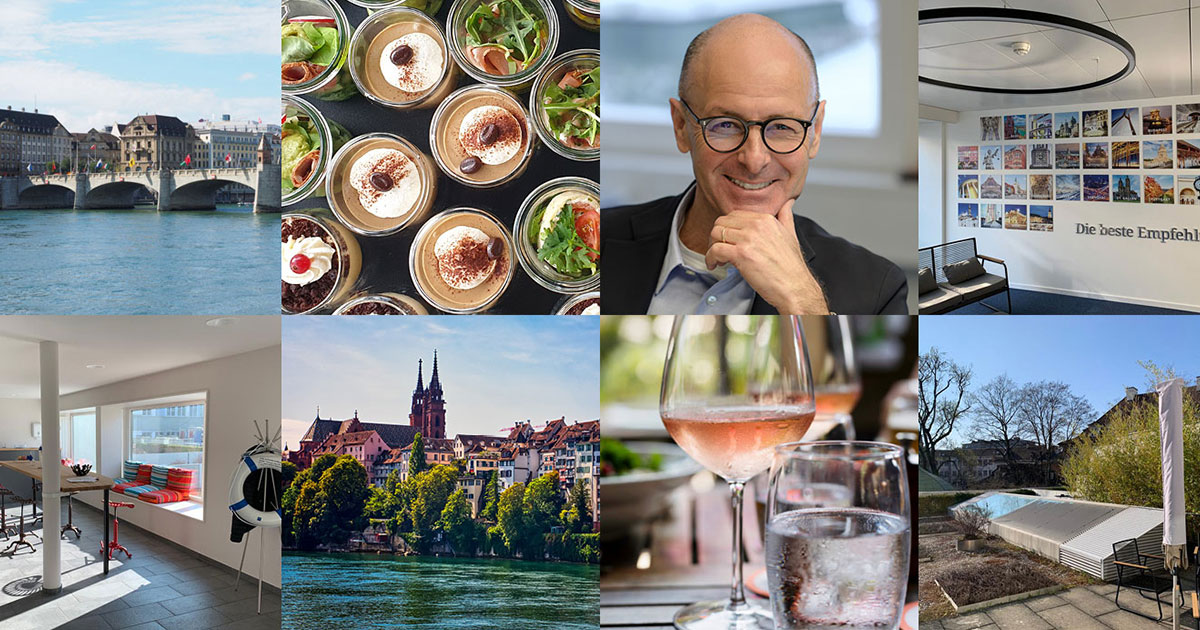
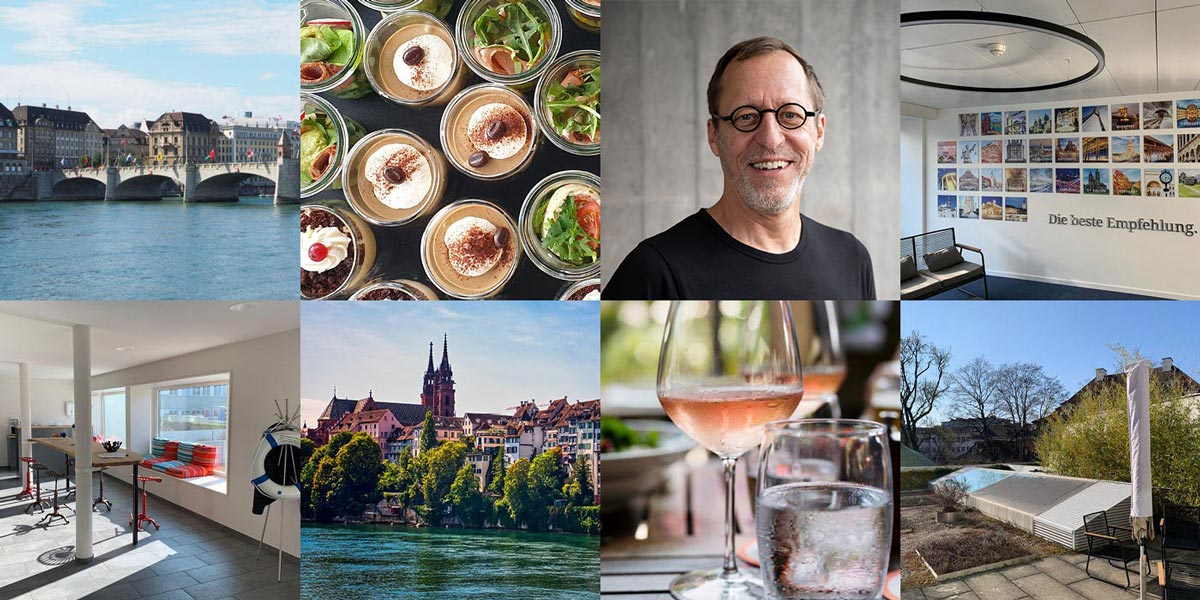
update

diff --git a/main.css b/main.css
@@ -35,11 +35,11 @@ h1{
   padding-bottom: 20px;
 }
 h1.header {
-  font-size: 90px;
+  font-size: 70px;
   padding-bottom: 0;
 }
 h2.header {
-  font-size: 50px;
+  font-size: 40px;
 }
 h3 {
   font-size: 15px;
@@ -78,14 +78,14 @@ article{
 
 header {
   width: 100%;
-  height: 100vh;
+  height: 150vh;
   position: relative;
-  
+  background-color: var(--funkblue);
 }
 
 header h1,
 header h2 {
-  color: var(--funkblue);
+  color: white;
 }
 
 .asheader {
@@ -99,7 +99,7 @@ header h2 {
 }
 
 .event-container-img {
-  height: 60vh;
+  height: 100vh;
   width: 100%;
   margin: 0;
   padding: 0;
@@ -375,15 +375,24 @@ footer p {
   padding-right: 50px;
 }
 footer  {
-    margin-top: 100px;
     background: var(--funkblue);
     display: flex;
-    margin-top: 70px;
+    margin-top: 0px;
     padding:30px;
     gap: 30px;
-    justify-content: flex-start;
+    justify-content: space-between;
     align-items: flex-end;
   }
+
+.footer02 {
+  display: flex;
+  flex-direction: row;
+  align-items: flex-end;
+  gap: 20px;
+}
+.footer-logo {
+  width: 100px;
+}
 
 /*----------------------------------
     Mobile
@@ -397,6 +406,10 @@ footer  {
   h3, .containerform p {font-size: 16px; text-align: left;}
   p, label, input, textarea, button, a {font-size: 16px;}
   section {width: 90%;}
+
+  header {height: 100vh;}
+  .event-container-img {height: 50vh;}
+
   .homebutton {bottom: 30px;}
   .containerform form {margin: 20px 0 0;}
   .gitem02 {grid-column: span 2; padding-bottom: 0px !important;}

diff --git a/index.php b/index.php
@@ -14,7 +14,7 @@
         <div class="event-title">
           <h1 class="header">Funk Connect</h1>
           <h2 class="header">Aus der Praxis für die Praxis</h2>
-          <h2 class="fix">18. Juni 2024</h2>
+          <h2 class="fix">20. November 2024</h2>
           <div class="event-container-img"></div> 
         </div>
         <button class="homebutton"> <a class="goto" href="#anmeldung">zur Anmeldung</a> </button>
@@ -22,16 +22,16 @@
 
     <section>
       <article class="intro">
-        <h1>Persönliche Einladung <br> Baurecht in der Praxis erleben</h1>
+        <h1>Persönliche Einladung <br> Herausforderung Inklusion für Wirtschaft und Gesellschaft</h1>
         <p>
           <span>
           Sehr geehrte Damen und Herren
           </span>
           <span>
-          Wir freuen uns, Sie zu unserem &laquo;Funk Connect&raquo; Event in unserer Niederlassung in Basel einzuladen. Unsere wiederkehrende Eventreihe &laquo;Funk Connect&raquo; bietet Einblicke von der Praxis für die Praxis. Knüpfen Sie wertvolle Kontakte in einem angenehmen und persönlichen Rahmen.
+          Wir freuen uns, Sie zu unserem zweiten &laquo;Funk Connect&raquo; Event in unserer Niederlassung in Basel einzuladen. Unsere wiederkehrende Eventreihe &laquo;Funk Connect&raquo; bietet Einblicke von der Praxis für die Praxis. Knüpfen Sie wertvolle Kontakte in einem angenehmen und persönlichen Rahmen.
           </span>
           <span>
-          Erleben Sie ein spannendes Impulsreferat der <strong>NEOVIUS AG</strong> zu Themen des öffentlichen und privaten Baurechts und erfahren Sie praxisnahe Einblicke von Herrn Daniel Gebhardt, Fachanwalt SAV Bau- und Immobilienrecht.
+          Erleben Sie ein spannendes Impulsreferat der <strong>Conclood AG</strong> zum Thema Inklusion (UN-Konvention) von Menschen mit Beeinträchtigungen - Herausforderung für die Wirtschaft und Gesellschaft. Welche Transformation ist dazu nötig und wichtig? Erfahren Sie praxisnahe Vorgehensweisen und Einblicke von <strong>Herrn Rolf Müller, Verwaltungsratspräsident Conclood AG.</strong>
           </span>
           <span>
           Im Anschluss laden wir Sie herzlich zu einem Apéro Riche ein, bei dem ausreichend Zeit für ungezwungene Gespräche und Vernetzung bleibt.
@@ -55,13 +55,13 @@
           <div class="acclist">
             <div class="grid02">
               <p><strong>Datum</strong> </p>
-              <p><strong>Dienstag, 18. Juni 2024</strong></p>
+              <p><strong>Mittwoch, 20. November 2024</strong></p>
               <p>17:45 Uhr</p>
               <p>Eintreffen der Gäste</p>
               <p>18:00 Uhr</p>
-              <p>Begrüssung / Referat Daniel Gebhardt</p>
+              <p>Begrüssung / Referat Rolf Müller</p>
               <p class="noline" >19:00 Uhr</p>
-              <p class="noline" >Apéro riche / Networking</p>
+              <p class="noline" >Apéro Riche / Networking</p>
             </div>
           </div>
         </div>
@@ -73,9 +73,9 @@
           </div>
           <div class="acclist">
             <div class="grid02 center">
-              <img src="./img/daniel-gebhardt.jpg" alt="daniel-gebhardt">
+              <img src="./img/rolf-mueller.jpg" alt="rolf-mueller">
               <p class="noline">
-                <strong>Daniel Gebhardt,</strong> <br> geboren 1960, Partner Neovius AG, Fachanwalt SAV Bau- und Immobilienrecht. Berät Unternehmen, öffentliche Hand und Privatpersonen in allen Belangen des Bau- und Immobilienrechts. Spezialisiert auf Raumplanung, Vertragswesen, Umweltschutzrecht, Submissionsrecht und Enteignungsrecht. Experte in der Begleitung von Grossprojekten vom Beginn bis zur Fertigstellung.
+                <strong>Rolf Müller</strong> <br> Rolf Müller aus Oberägeri ist ein erfahrener Experte im Sozialbereich mit einer langjährigen Berufstätigkeit als CEO sozialer Einrichtungen. Er verfügt über tiefgehendes Wissen über die Entwicklungen im Sozialsektor und deren gesellschaftliche Anforderungen und Auswirkungen. Zusätzlich ist er in verschiedenen Vorstands- und Verwaltungsratsmandaten tätig, darunter bei ARTISET, dem nationalen Dachverband von Institutionen für Menschen mit Unterstützungsbedarf, dem Schweizerischen Arbeitgeberverband (SAV) und als Verwaltungsratspräsident der Conclood AG.
               </p>
             </div>
           </div>
@@ -105,7 +105,7 @@
       
       <div id="anmeldung" class="containerform">
             <h2>Anmeldung</h2>
-            <p>Die Teilnehmerzahl ist beschränkt. Die Anmeldungen werden nach Eingang berücksichtigt. <strong>Anmeldeschluss ist der 4. Juni 2024.</strong></p>
+            <p>Die Teilnehmerzahl ist beschränkt. Die Anmeldungen werden nach Eingang berücksichtigt. <strong>Anmeldeschluss ist der 7. Oktober 2024.</strong></p>
             <?php require_once('form.php'); ?>
 
             <form id="contact" method="post" action="<?php echo htmlspecialchars($_SERVER["PHP_SELF"]);?>" novalidate>

diff --git a/footer.php b/footer.php
@@ -4,11 +4,14 @@
             Funk Basel <br>
             Henric Petri-Strasse 12 <br>
             CH-4051 Basel <br> <br>
-            <a href="tel:041583110200">T +41 58 311 01 00</a>
+            <a href="tel:041583110100">T +41 58 311 01 00</a>
             <a href="https://www.funk-gruppe.ch/de/" target="_top">www.funk-gruppe.ch</a>
         </p>
     </div>
     <div class="footer02">
         <h1>Die beste Empfehlung. Funk.</h1>
+        <div class="footer-logo">
+            <img src="img/funk-logo.svg" alt="funk logo">
+        </div> 
     </div> 
 </footer>
